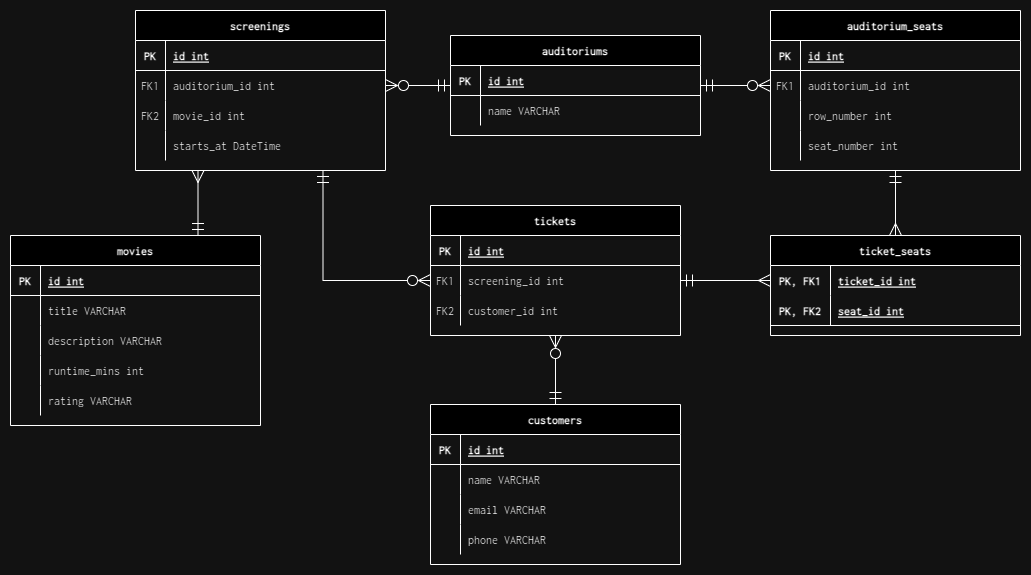
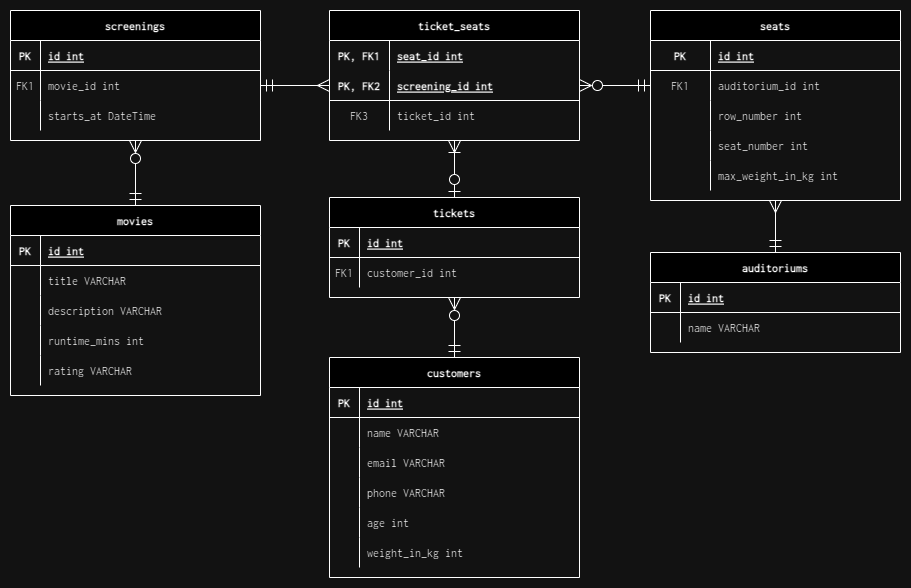
Model: Refactored Schema

diff --git a/api-cinema-challenge/api-cinema-challenge/Models/Domain/Junctions/TicketSeat.cs b/api-cinema-challenge/api-cinema-challenge/Models/Domain/Junctions/TicketSeat.cs
@@ -1,4 +1,5 @@
 using api_cinema_challenge.Models.Domain.Entities.CinemaInfrastructure;
+using api_cinema_challenge.Models.Domain.Entities.MoviesAndScreenings;
 using api_cinema_challenge.Models.Domain.Entities.SalesAndTickets;
 using System.ComponentModel.DataAnnotations.Schema;
 
@@ -7,14 +8,19 @@ namespace api_cinema_challenge.Models.Domain.Junctions
     [Table("ticket_seats")]
     public class TicketSeat
     {
+        [Column("seat_id")]
+        [ForeignKey("SeatId")]
+        public int SeatId { get; set; }
+        public Seat Seat { get; set; }
+
+        [Column("screening_id")]
+        [ForeignKey("ScreeingId")]
+        public int ScreeningId { get; set; }
+        public Screening Screening { get; set; }
+
         [Column("ticket_id")]
         [ForeignKey("TicketId")]
         public int TicketId { get; set; }
         public Ticket Ticket { get; set; }
-
-        [Column("seat_id")]
-        [ForeignKey("SeatId")]
-        public int SeatId { get; set; }
-        public AuditoriumSeat Seat { get; set; }
     }
 }

diff --git a/api-cinema-challenge/api-cinema-challenge/Models/Domain/Entities/SalesAndTickets/Ticket.cs b/api-cinema-challenge/api-cinema-challenge/Models/Domain/Entities/SalesAndTickets/Ticket.cs
@@ -2,7 +2,7 @@
 using System.ComponentModel.DataAnnotations.Schema;
 using api_cinema_challenge.Models.Domain.Entities.MoviesAndScreenings;
 
-namespace api_cinema_challenge.Models.Domain.Entities
+namespace api_cinema_challenge.Models.Domain.Entities.SalesAndTickets
 {
     [Table("tickets")]
     public class Ticket
@@ -11,15 +11,9 @@ namespace api_cinema_challenge.Models.Domain.Entities
         [Column("id")]
         public int Id { get; set; }
 
-        [Column("screening_id")]
-        [ForeignKey("ScreeningId")]
-        public int ScreeningId { get; set; }
-        public Screening Screening { get; set; }
-
         [Column("customer_id")]
         [ForeignKey("CustomerId")]
         public int CustomerId { get; set; }
         public Customer Customer { get; set; }
-
     }
 }

diff --git a/api-cinema-challenge/api-cinema-challenge/Models/Domain/Entities/SalesAndTickets/Customer.cs b/api-cinema-challenge/api-cinema-challenge/Models/Domain/Entities/SalesAndTickets/Customer.cs
@@ -1,7 +1,7 @@
 using System.ComponentModel.DataAnnotations;
 using System.ComponentModel.DataAnnotations.Schema;
 
-namespace api_cinema_challenge.Models.Domain.Entities
+namespace api_cinema_challenge.Models.Domain.Entities.SalesAndTickets
 {
     [Table("customers")]
     public class Customer
@@ -19,5 +19,10 @@ namespace api_cinema_challenge.Models.Domain.Entities
         [Column("phone")]
         public string Phone { get; set; }
 
+        [Column("age")]
+        public int Age { get; set; }
+
+        [Column("weight_in_kg")]
+        public int Weight { get; set; }
     }
 }

diff --git a/api-cinema-challenge/api-cinema-challenge/Models/Domain/Entities/CinemaInfrastructure/Seat.cs b/api-cinema-challenge/api-cinema-challenge/Models/Domain/Entities/CinemaInfrastructure/Seat.cs
@@ -4,9 +4,8 @@ using System.ComponentModel.DataAnnotations.Schema;
 namespace api_cinema_challenge.Models.Domain.Entities.CinemaInfrastructure
 {
     [Table("auditorium_seats")]
-    public class AuditoriumSeat
+    public class Seat
     {
-        [Key]
         [Column("id")]
         public int Id { get; set; }
 
@@ -20,5 +19,8 @@ namespace api_cinema_challenge.Models.Domain.Entities.CinemaInfrastructure
 
         [Column("seat_number")]
         public int SeatNumber { get; set; }
+
+        [Column("max_weight_in_kg")]
+        public int MaxWeight { get; set; }
     }
 }

diff --git a/api-cinema-challenge/api-cinema-challenge/Models/Domain/Entities/MoviesAndScreenings/Screening.cs b/api-cinema-challenge/api-cinema-challenge/Models/Domain/Entities/MoviesAndScreenings/Screening.cs
@@ -12,11 +12,6 @@ namespace api_cinema_challenge.Models.Domain.Entities.MoviesAndScreenings
         [Column("id")]
         public int Id { get; set; }
 
-        [Column("auditoium_id")]
-        [ForeignKey("AuditoriumId")]
-        public int AuditoriumId { get; set; }
-        public Auditorium Auditorium { get; set; }
-
         [Column("movie_id")]
         [ForeignKey("MovieId")]
         public int MovieId { get; set; }
